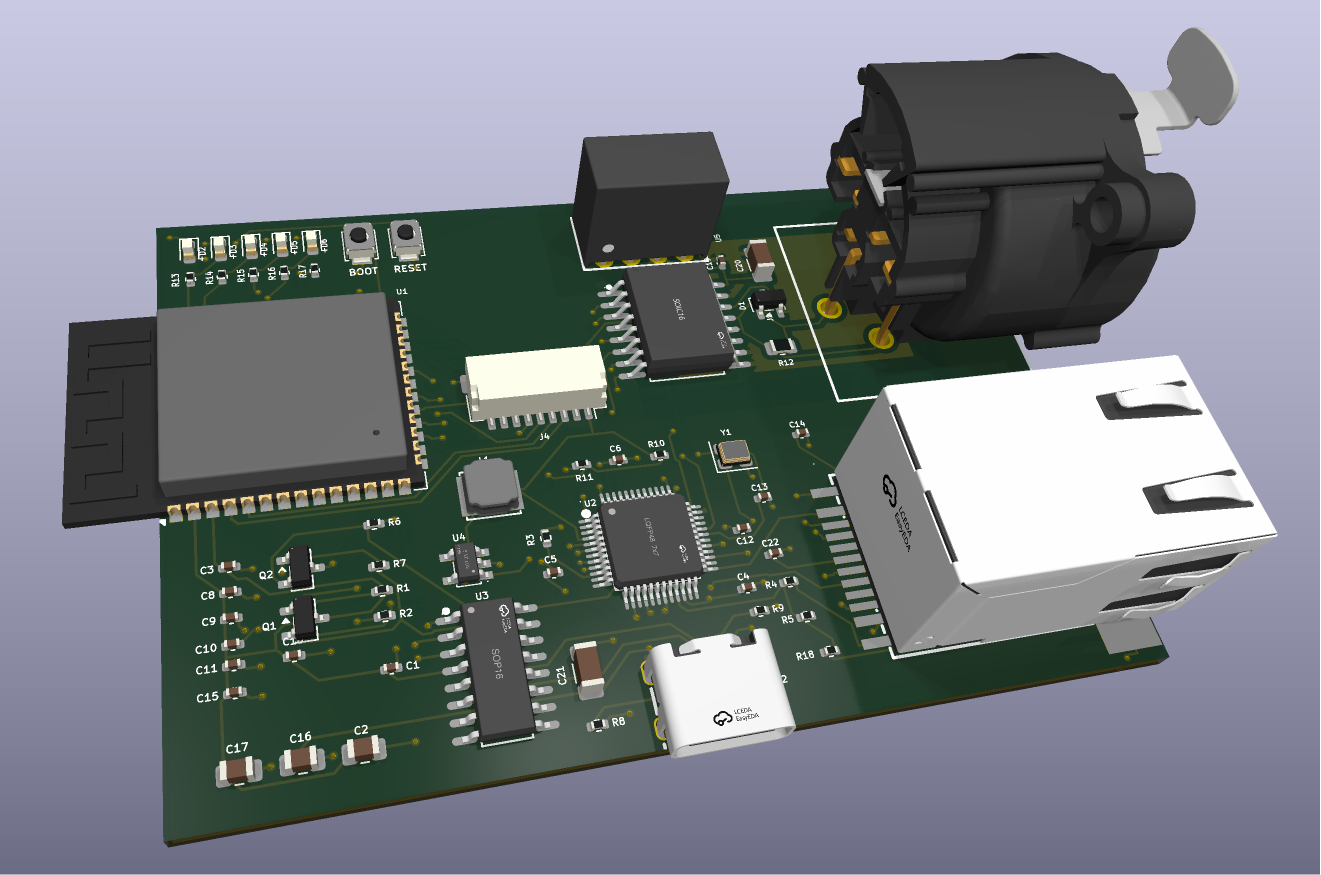
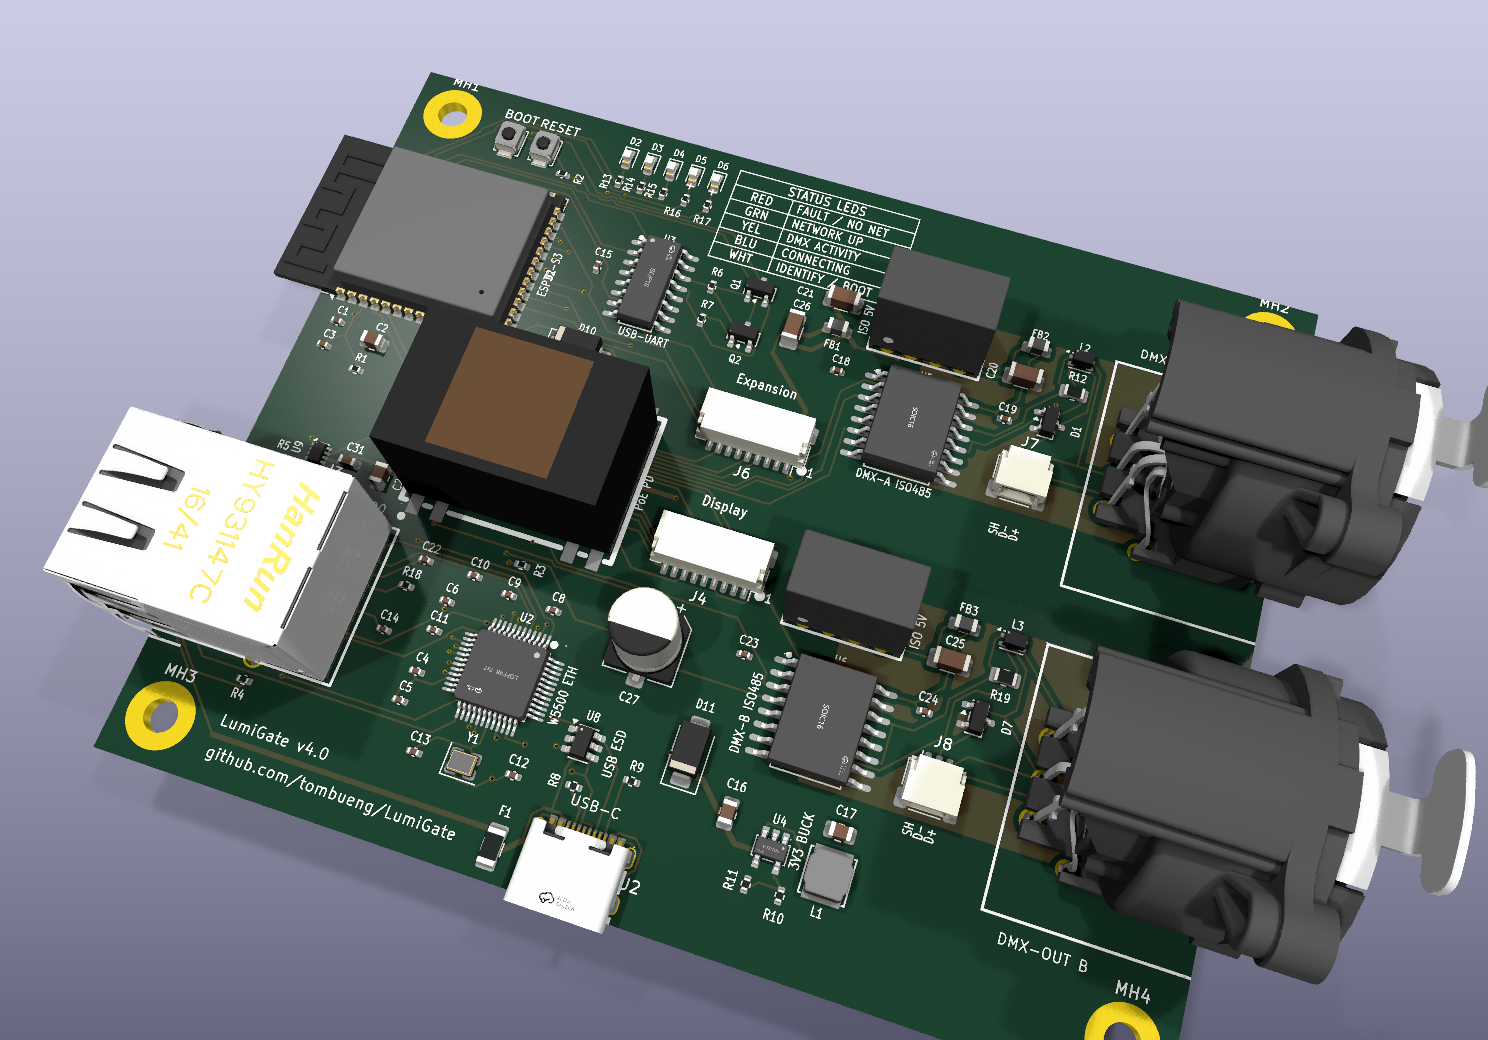
hardware v4: XLR-5 fix + regenerate v4 board renders + v4 PCB labels
The board uses XLR-5 (Neutrik NC5FAH), not XLR-3; fixed in hardware/README. Regenerated board3d-1/2.png + board-pcb-1.png from the actual v4 board (the old ones showed the v3 single-universe board). Updated the root README Custom PCB section to the v4 board (two isolated DMX universes, two XLR-5, PoE, 5-LED status panel) plus the v3->v4 PCB labels + image alt.

Left the firmware board-picker / per-board-table refs (lumigate_v3 env, the 'LumiGate v3' preset) at master's version; those go with the firmware env rename.

diff --git a/README.md b/README.md
@@ -77,27 +77,27 @@ A guided tour of every control — manual channel control, labels, sparkline his
 | **OTA Updates** | ArduinoOTA (IDE/CLI) + manual `.bin` upload + one-click GitHub update |
 | **mDNS** | Reachable as `dmx-gateway.local` (hostname configurable) |
 | **REST API** | `GET /dmx.json`, `/senders.json`, `/log.json`, `/version.json`, `/labels.json` |
-| **Status LED** | Plain GPIO, WS2812 RGB NeoPixel, or 5-LED panel (v3) — codes network/idle/DMX/conflict/identify state |
+| **Status LED** | Plain GPIO, WS2812 RGB NeoPixel, or 5-LED panel (v4 board) — codes network/idle/DMX/conflict/identify state |
 | **Up to 2 DMX outputs** | Two independent universes, each its own UART + RS485 transceiver (same universe on both = splitter) |
 | **Status display** | Optional I²C OLED (SSD1306 / SH1106) or colour SPI OLED (SSD1351) — IP, universe, FPS, sources + auto-rotating conflict/identify/manual banners |
 | **Configurable DMX pins** | Per output: universe, UART port, TX / RX / RTS GPIO — set at runtime via web UI, no recompile |
 | **NVS persistence** | Universe, protocol, IP config, labels, hostname, OTA password, LED/DMX pin config survive reboots |
 | **Config reset** | Hold BOOT button 3 s on startup, or via `/reset` page |
-| **Ethernet support** | WT32-ETH01 (LAN8720) and v3 (W5500) run wired LAN *or* WiFi, switchable at runtime; any ESP32 / ESP32-S3 + an external W5500 module works too, and a **classic ESP32 can pick the W5500 (SPI) or the built-in MAC + an RMII PHY** (LAN8720, IP101, RTL8201, DP83848, KSZ8081, JL1101) in `/config`; DHCP or static |
+| **Ethernet support** | WT32-ETH01 (LAN8720) and the v4 board (W5500) run wired LAN *or* WiFi, switchable at runtime; any ESP32 / ESP32-S3 + an external W5500 module works too, and a **classic ESP32 can pick the W5500 (SPI) or the built-in MAC + an RMII PHY** (LAN8720, IP101, RTL8201, DP83848, KSZ8081, JL1101) in `/config`; DHCP or static |
 | **Dual/triple target** | Builds for ESP32 (WROOM-32), ESP32-S3 (DevKitC-1), WT32-ETH01 |
 
 ---
 
 ## Hardware
 
-> ### 🛠 Custom PCB — LumiGate v3
+> ### 🛠 Custom PCB — LumiGate v4
 >
 > Want the real thing instead of breadboard + modules? There's a complete **open-source 4-layer PCB**:
-> ESP32-S3 with **both WiFi and wired Ethernet** (W5500), **galvanically-isolated DMX** output,
-> USB-C power + flashing, status LEDs, BOOT/RST buttons, and an optional OLED/TFT display header —
-> all palm-sized and fabricable at JLCPCB for a few dollars.
+> ESP32-S3 with **both WiFi and wired Ethernet** (W5500), **two galvanically-isolated DMX universes**
+> (two XLR-5 outputs), **802.3af PoE** or USB-C power + flashing, a 5-LED status panel, BOOT/RST buttons,
+> and an optional OLED/TFT display header. All palm-sized and fabricable at JLCPCB for a few dollars.
 >
-> [<img src="hardware/board3d-1.png" width="360" alt="LumiGate v3 custom PCB">](hardware/README.md)
+> [<img src="hardware/board3d-1.png" width="360" alt="LumiGate v4 custom PCB">](hardware/README.md)
 >
 > **→ Full design, component rationale, BOM, gerbers & JLCPCB fab guide: [`hardware/`](hardware/README.md)**
 
@@ -686,7 +686,7 @@ The "DMX active" green is held through brief input gaps (continuous 40 Hz
 output), so momentary multicast loss doesn't flicker the LED. The LED runs on
 its own task, so serving the web UI never freezes it.
 
-**5-LED status panel** (`ledType 3`, the LumiGate v3 board) — five discrete LEDs that show
+**5-LED status panel** (`ledType 3`, the LumiGate v4 board) — five discrete LEDs that show
 independent states *simultaneously*, instead of one LED time-sharing colours:
 
 | LED | Meaning |
@@ -698,7 +698,7 @@ independent states *simultaneously*, instead of one LED time-sharing colours:
 | **White** | identify active (blink) / booting |
 
 Default GPIO: `2` (ESP32 DevKit on-board LED). ESP32-S3 DevKitC-1 uses GPIO `48` (built-in WS2812).
-The v3 board uses **R=1 G=2 Y=6 B=7 W=15**.
+The v4 board uses **R=1 G=2 Y=6 B=7 W=15**.
 
 ---
 

diff --git a/hardware/README.md b/hardware/README.md
@@ -71,7 +71,7 @@ Each universe is a self-contained galvanic island; the two share no copper with 
   ground with anything else.
 - **D1 / D7 — SM712 TVS** *(C404012)* + **R12 / R19 — 120 Ω termination** — per-universe surge protection
   clamped to that universe's isolated ground, and the standard RS-485 line termination.
-- **J1 / J5 — XLR-3** *(C309326)* — the two DMX output connectors, each living entirely on its isolated domain.
+- **J1 / J5 — XLR-5** *(C309326)* — the two DMX output connectors (Neutrik NC5FAH), each living entirely on its isolated domain.
 - Nets: universe 1 = `VISO`/`GNDISO`/`DMX_A`/`DMX_B`; universe 2 = `VISO2`/`GNDISO2`/`DMX2_A`/`DMX2_B`.
 
 ### Power — USB-C **or** PoE (diode-OR'd)
@@ -107,7 +107,7 @@ Each universe is a self-contained galvanic island; the two share no copper with 
 ## Feature summary
 
 - 🎛 **Art-Net + sACN (E1.31)** input, configurable universe(s)
-- 🎚 **Two independent, separately-isolated DMX512 universes** — two XLR-3 outputs, each on its own
+- 🎚 **Two independent, separately-isolated DMX512 universes** — two XLR-5 outputs, each on its own
   isolation island (RDM-capable transceivers); drive two universes from one box
 - 🌐 **Dual connectivity** — WiFi (captive-portal setup) *and* wired Ethernet (W5500)
 - ⚡ **Power-over-Ethernet (802.3af)** — single Cat-5 cable for data *and* power; **or** USB-C — the two